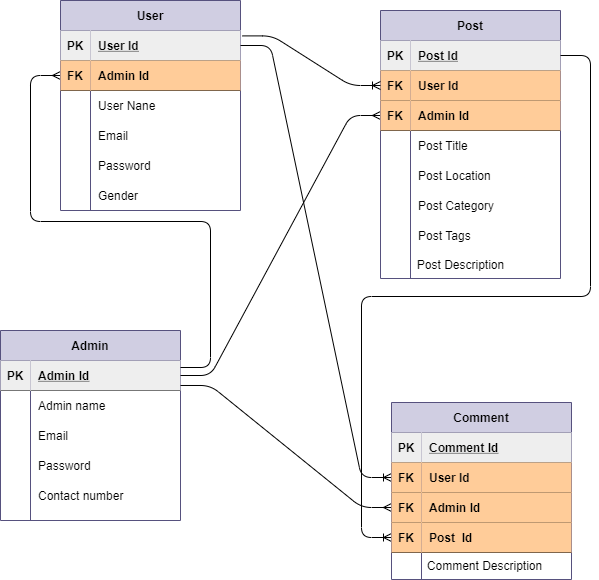
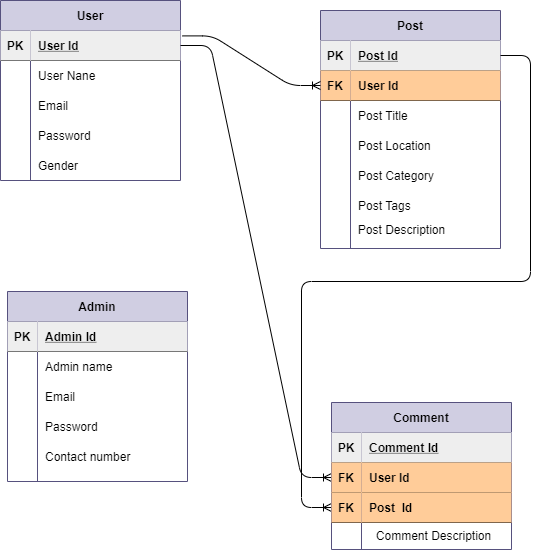
Update Postlist.html USer
@Antik14
antik

diff --git a/templates/PostManagement/PostList.html b/templates/PostManagement/PostList.html
@@ -5,11 +5,12 @@
 
     {% for p in Post %}
         <h2>Post info:  {{ p.id }} </h2>
-        {{ p.Post_title }} <br>
-        {{ p.Post_location}} <br>
-        {{ p.Post_catagory}} <br>
-        {{ p.Post_tags}} <br>
-        {{ p.Post_description}} <br>
+        Post Name: {{ p.Post_title }} <br>
+        Post By: {{ p.User.User_name }} <br>
+        Location: {{ p.Post_location}} <br>
+        Post Category: {{ p.Post_catagory}} <br>
+        Post Tags:{{ p.Post_tags}} <br>
+        Post Description: {{ p.Post_description}} <br>
 
 
 

diff --git a/templates/CommentManagement/CommentList.html b/templates/CommentManagement/CommentList.html
@@ -5,7 +5,9 @@
 
     {% for c in Comment %}
         <h2>Comment:  {{ c.id }} </h2>
-        {{ c.Comment_description }} <br>
+        Name: {{ c.User.User_name }} <br>
+        Post: {{ c.Post.Post_title }} <br>
+        Comment: {{ c.Comment_description }} <br>
 
 
     {% endfor %}

diff --git a/templates/AdminManagement/AdminList.html b/templates/AdminManagement/AdminList.html
@@ -3,7 +3,7 @@
 
 {% block content %}
 
-    {% for a in Admins %}
+    {% for a in Admin %}
         <h2>Admin info:  {{ a.id }} </h2>
         {{ a.Admin_name }} <br>
         {{ a.Admin_email}} <br>

diff --git a/AdminManagement/models.py b/AdminManagement/models.py
@@ -5,3 +5,6 @@ class Admin(models.Model):
     Admin_name = models.CharField(max_length=100)
     Admin_email = models.EmailField(max_length=100,unique=True)
     Admin_contact = models.IntegerField(unique=True)
+
+    def __str__(self):
+        return self.Admin_name

diff --git a/CommentManagement/models.py b/CommentManagement/models.py
@@ -9,5 +9,8 @@ class Comment(models.Model):
     User = models.ForeignKey(User, on_delete=models.SET_NULL, null=True)
     Post = models.ForeignKey(Post, on_delete=models.SET_NULL, null=True)
 
+    def __str__(self):
+        return self.User.User_name
+
 
 

diff --git a/AdminManagement/views.py b/AdminManagement/views.py
@@ -6,6 +6,6 @@ from .models import Admin
 def showAdmin(request):
     adminList = Admin.objects.all()
     context = {
-        'admin': adminList
+        'Admin': adminList
     }
     return render(request, 'AdminManagement/AdminList.html', context)
